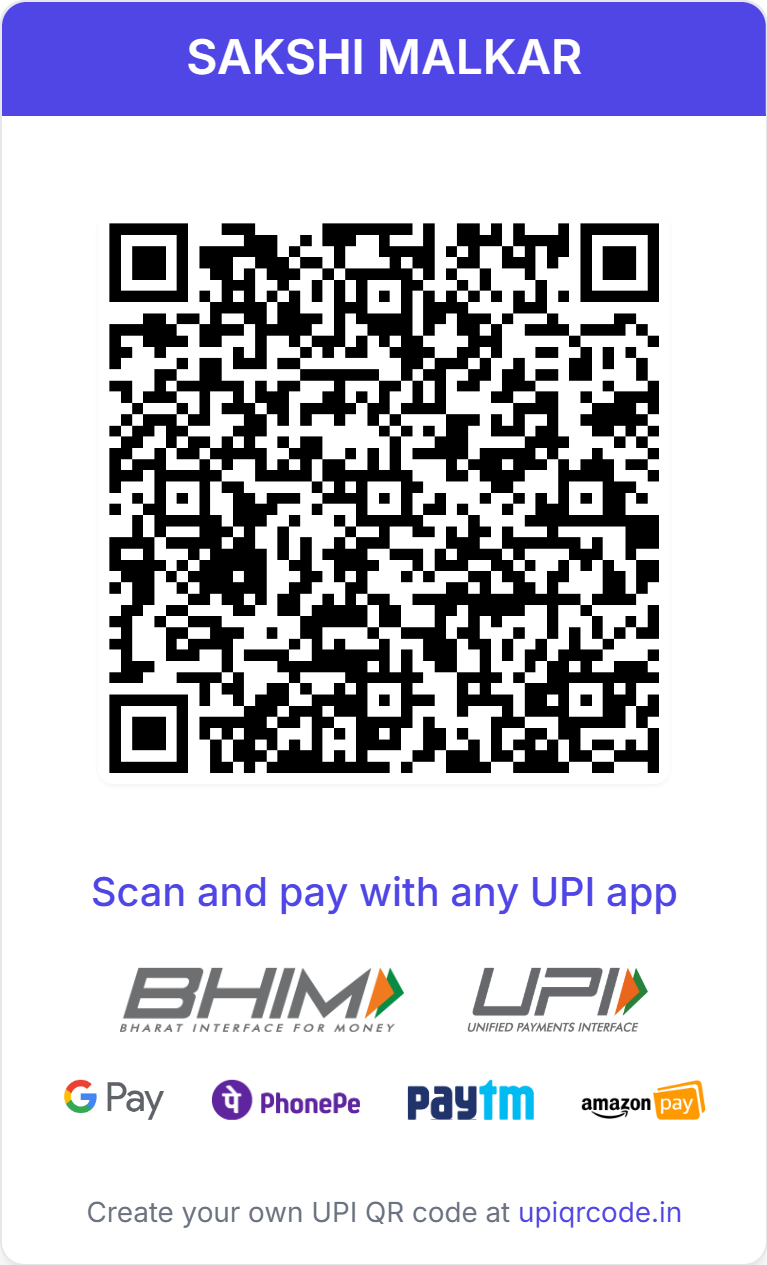
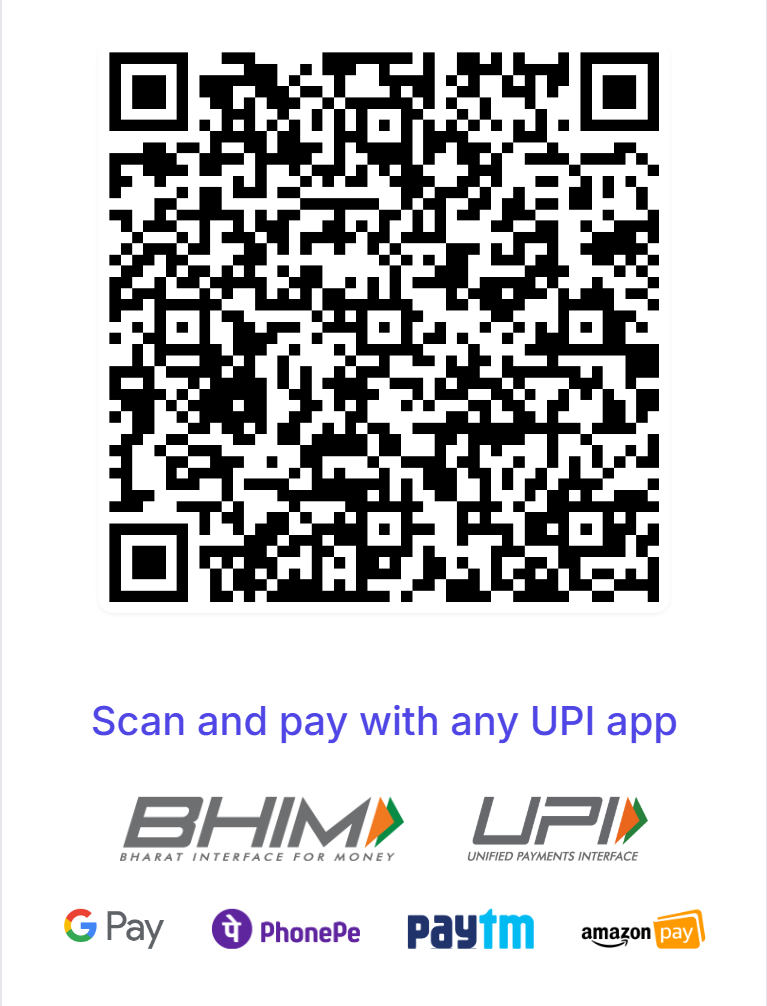
Updated img

diff --git a/index.html b/index.html
@@ -102,7 +102,7 @@ button {
     <h3>🔒 Content Locked</h3>
     <p>Pay ₹99 to unlock verified free courses</p>
 
-    <img src="myqr1.png" alt="Payment QR">
+    <img src="myqr.png" alt="Payment QR">
 
     <div class="payment-box">
       <p class="note">You’ll receive a payment code after paying</p>
